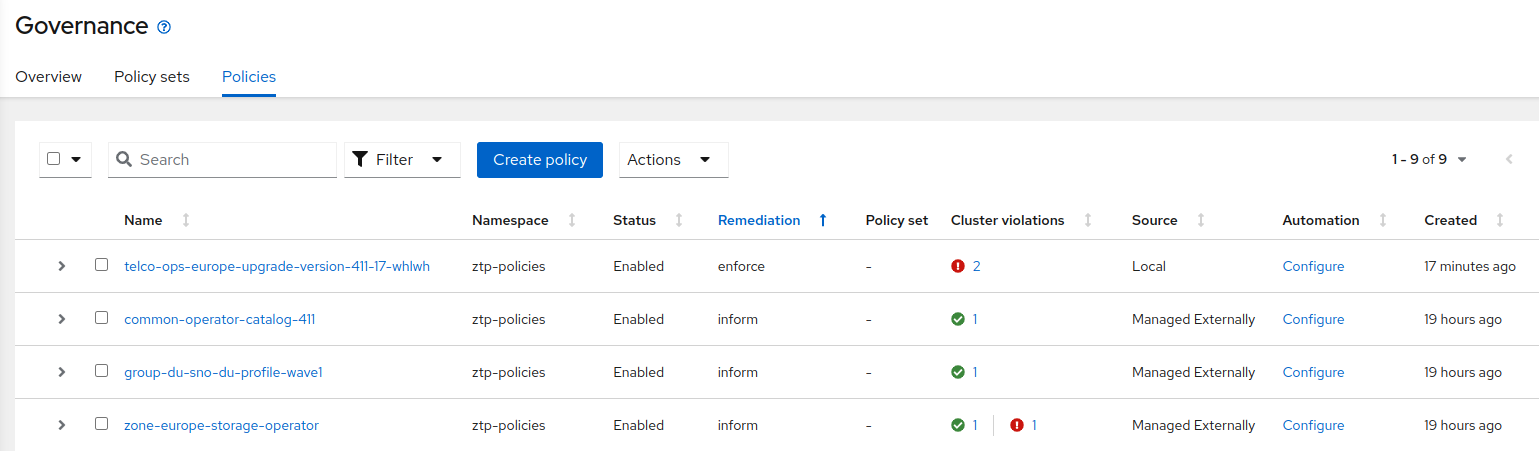
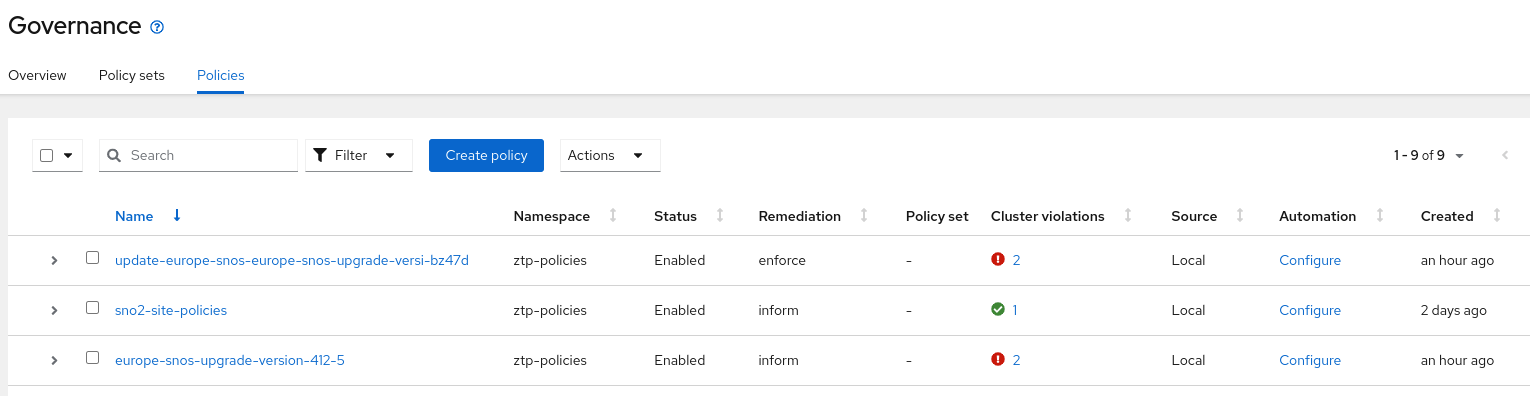
[CI] Publish Documentation for f37550affd594da3e98b9a56e87d13621a399abb - f37550affd594da3e98b9a56e87d13621a399abb 🚀

diff --git a/5g-ran-deployments-on-ocp-lab/4.12/using-talm-to-update-clusters.html b/5g-ran-deployments-on-ocp-lab/4.12/using-talm-to-update-clusters.html
@@ -672,10 +672,22 @@
 <div id="preamble">
 <div class="sectionbody">
 <div class="paragraph">
-<p>In this section we will perform a platform upgrade to both managed clusters using the pre-cache and backup feature implemented in the Topology Aware Lifecycle Manager (TALM) operator. The pre-cache feature prepares the maintenance operation in the managed clusters by pulling the required artifacts prior to the upgrade. The reasoning behind this feature is that SNO spoke clusters may have limited bandwidth to the container registry, which will make it difficult for the upgrade to complete within the required time. In order to ensure the upgrade can fit within the maintenance window, the required artifacts need to be present on the spoke cluster prior to the upgrade. The idea is pre-caching all the images needed for the platform and operator upgrade on the node, so they are not pulled at upgrade time. Do it in a maintenance window(s) before the upgrade maintenance window.</p>
+<p>In this section, we will perform a platform upgrade to both managed clusters using the pre-cache and backup feature implemented in the Topology Aware Lifecycle Manager (TALM) operator. The pre-cache feature prepares the maintenance operation in the managed clusters by pulling the required artifacts prior to the upgrade. The reasoning behind this feature is that SNO spoke clusters may have limited bandwidth to the container registry, which will make it difficult for the upgrade to complete within the required time. In order to ensure the upgrade can fit within the maintenance window, the required artifacts need to be present on the spoke cluster prior to the upgrade. The idea is pre-caching all the images needed for the platform and operator upgrade on the node, so they are not pulled at upgrade time. Do it in a maintenance window(s) before the upgrade maintenance window.</p>
 </div>
 <div class="paragraph">
 <p>The backup feature, on the other hand, implements a procedure for rapid recovery of a SNO in the event of a failed upgrade that is unrecoverable. The SNO needs to be restored to a working state with the previous version of OCP without requiring a re-provision of the application(s).</p>
+</div>
+<div class="admonitionblock important">
+<table>
+<tr>
+<td class="icon">
+<i class="fa icon-important" title="Important"></i>
+</td>
+<td class="content">
+The backup feature only allows SNOs to be restored, this is not applicable to any other kind of OpenShift clusters.
+</td>
+</tr>
+</table>
 </div>
 <div class="paragraph">
 <p>Let&#8217;s upgrade our both clusters. First of all, let&#8217;s verify the TALM operator is running in our <strong>hub cluster</strong>:</p>
@@ -740,7 +752,7 @@ deployment.apps/gitops-operator-controller-manager          1/1     1           
 </div>
 </div>
 <div class="paragraph">
-<p>Finally, let&#8217;s take a look at the cluster group upgrade (CGU) CRD managed by TALM. If we pay a closer look we will notice that an already completed CGU was applied to SNO2. As we mentioned in <a href="talm.html#inform-policies">inform policies</a> section, all policies are not enforced, the user has to create the proper CGU resource to enforce them. However, when using ZTP we want our cluster provisioned and configured automatically. This is where TALM will step through the set of created policies (inform) and will enforce them once the cluster was successfully provisioned. Therefore, the configuration stage starts without any intervention ending up with our OpenShift cluster ready to process workloads.</p>
+<p>Finally, let&#8217;s take a look at the cluster group upgrade (CGU) CRD managed by TALM. If we pay a closer look we will notice that an already completed CGU was applied to SNO2. As we mentioned in <a href="talm.html#inform-policies">inform policies</a> section, all policies are not enforced, the user has to create the proper CGU resource to enforce them. However, when using ZTP, we want our cluster provisioned and configured automatically. This is where TALM will step through the set of created policies (inform) and will enforce them once the cluster was successfully provisioned. Therefore, the configuration stage starts without any intervention ending up with our OpenShift cluster ready to process workloads.</p>
 </div>
 <div class="admonitionblock warning">
 <table>
@@ -771,12 +783,24 @@ ztp-install   sno2   3h29m   Completed   All clusters are compliant with all the
 <h2 id="getting-snos-kubeconfigs"><a class="anchor" href="#getting-snos-kubeconfigs"></a>Getting the SNO clusters kubeconfigs</h2>
 <div class="sectionbody">
 <div class="paragraph">
-<p>In the previous sections we have deployed the <code>sno2</code> cluster and attached the <code>sno1</code> cluster. Before we continue with TALM, let&#8217;s grab the kubeconfigs for both cluster since we will need them for the next sections.</p>
+<p>In the previous sections we have deployed the <code>sno2</code> cluster and attached the <code>sno1</code> cluster. Before we continue with TALM, let&#8217;s grab the kubeconfigs for both cluster since we will need them for the next sections. The following commands need to be only executed in the hypervisor as the root user.</p>
+</div>
+<div class="admonitionblock warning">
+<table>
+<tr>
+<td class="icon">
+<i class="fa icon-warning" title="Warning"></i>
+</td>
+<td class="content">
+Be sure you are executing the following commands after becoming root in the hypervisor. Notice that when becoming root you can connect to the hub cluster using the <code>oc</code> binary.
+</td>
+</tr>
+</table>
 </div>
 <div class="listingblock console-input">
 <div class="content">
-<pre class="highlightjs highlight"><code class="language-bash hljs" data-lang="bash">oc --kubeconfig ~/5g-deployment-lab/hub-kubeconfig -n sno1 extract secret/sno1-admin-kubeconfig --to=- &gt; ~/5g-deployment-lab/sno1-kubeconfig
-oc --kubeconfig ~/5g-deployment-lab/hub-kubeconfig -n sno2 extract secret/sno2-admin-kubeconfig --to=- &gt; ~/5g-deployment-lab/sno2-kubeconfig</code></pre>
+<pre class="highlightjs highlight"><code class="language-bash hljs" data-lang="bash">oc --kubeconfig ~/hub-kubeconfig -n sno1 extract secret/sno1-admin-kubeconfig --to=- &gt; ~/sno1-kubeconfig
+oc --kubeconfig ~/hub-kubeconfig -n sno2 extract secret/sno2-admin-kubeconfig --to=- &gt; ~/sno2-kubeconfig</code></pre>
 </div>
 </div>
 </div>
@@ -840,7 +864,19 @@ git push origin main</code></pre>
 </div>
 </div>
 <div class="paragraph">
-<p>Once committed, in a couple of minutes we will see a new policy in the multicloud RHACM console. As noticed, the policy named europe-snos-upgrade-version-412-5 has a violation. However, only one. If we check the policy information we will see that this policy is only targeting SNO2 cluster. That&#8217;s because the SNO1 cluster does not have the labels zone-europe and active logicalGroup that the PGT is targeting in its binding rule.</p>
+<p>Once committed, in a couple of minutes we will see a new policy in the multicloud RHACM console. As noticed, the policy named europe-snos-upgrade-version-412-5 has a violation. However, only one cluster is not compliant. If we check the policy information we will see that this policy is only targeting SNO2 cluster. That&#8217;s because the SNO1 cluster does not have the labels zone-europe and active logicalGroup that the PGT is targeting in its binding rule.</p>
+</div>
+<div class="admonitionblock warning">
+<table>
+<tr>
+<td class="icon">
+<i class="fa icon-warning" title="Warning"></i>
+</td>
+<td class="content">
+Notice in the following picture that there are policies not applying to any cluster. Those are policies targeting the test environment. This is expected since we do not have any clusters in the test environment, e.g, no clusters are labeled with the proper label for testing: logicalGroup=test.
+</td>
+</tr>
+</table>
 </div>
 <div class="imageblock">
 <div class="content">
@@ -848,7 +884,7 @@ git push origin main</code></pre>
 </div>
 </div>
 <div class="paragraph">
-<p>Let&#8217;s add the proper labels to SNO1:</p>
+<p>Let&#8217;s add the proper labels to production cluster SNO1:</p>
 </div>
 <div class="listingblock console-input">
 <div class="content">
@@ -866,7 +902,7 @@ git push origin main</code></pre>
 <h2 id="upgrade-cgu-creation"><a class="anchor" href="#upgrade-cgu-creation"></a>Applying the upgrade</h2>
 <div class="sectionbody">
 <div class="paragraph">
-<p>At this point we need to create a CGU resource that will start the upgrade process. In our case, the process will be divided into two stages:</p>
+<p>At this point, we need to create a Cluster Group Upgrade (CGU) resource that will start the upgrade process. In our case, the process will be divided into two stages:</p>
 </div>
 <div class="olist arabic">
 <ol class="arabic">
@@ -881,7 +917,7 @@ git push origin main</code></pre>
 <div class="sect2">
 <h3 id="talm-backup-precache"><a class="anchor" href="#talm-backup-precache"></a>Backup and pre-cache</h3>
 <div class="paragraph">
-<p>Let&#8217;s create the CGU. In this case, we will apply the managed policy (europe-snos-upgrade-version-412-5) to both clusters at the same time (maxConcurrency is 2). Notice that the CGU is disabled, this is suggested if we are going to run the precaching feature. This means, that once the precaching process is done we are ready to start the upgrade process. This idea is related to the compliance of a maintenance window in an enterprise.</p>
+<p>Let&#8217;s create the CGU. In this case, we will apply the managed policy (europe-snos-upgrade-version-412-5) to both clusters at the same time (maxConcurrency is 2). Notice that the CGU is disabled, this is suggested if we are going to run the precaching feature. This means, that once the precaching process is done we are ready to start the upgrade process by enabling the CGU. This idea is related to the compliance of a maintenance window in an enterprise.</p>
 </div>
 <div class="paragraph">
 <p>Remember that several gigabytes of artifacts needs to be downloaded to the spoke for a full upgrade. SNO spoke clusters may have limited bandwidth to the hub cluster hosting the registry, which will make it difficult for the upgrade to complete within the required time. In order to ensure the upgrade can fit within the maintenance window, the required artifacts need to be present on the spoke cluster prior to the upgrade. Therefore, the process is split up into two stages as mentioned.</p>
@@ -906,7 +942,6 @@ metadata:
 spec:
   preCaching: true
   backup: true
-  deleteObjectsOnCompletion: false
   clusters:
   - sno1
   - sno2
@@ -924,7 +959,7 @@ EOF</code></pre>
 </div>
 <div class="listingblock console-input">
 <div class="content">
-<pre class="highlightjs highlight"><code class="language-bash hljs" data-lang="bash">oc --kubeconfig ~/5g-deployment-lab/hub-kubeconfig get cgu -A</code></pre>
+<pre class="highlightjs highlight"><code class="language-bash hljs" data-lang="bash">oc --kubeconfig ~/hub-kubeconfig get cgu -A</code></pre>
 </div>
 </div>
 <div class="listingblock console-input">
@@ -944,14 +979,14 @@ ztp-policies   update-europe-snos   10s     PrecacheSpecIsWellFormed   Precachin
 <i class="fa icon-warning" title="Warning"></i>
 </td>
 <td class="content">
-Pre-cache job can take up to 5m to be created.
+Be sure you are executing the following commands in the hypervisor. Notice that pre-cache job can take up to 5m to be created.
 </td>
 </tr>
 </table>
 </div>
 <div class="listingblock console-input">
 <div class="content">
-<pre class="highlightjs highlight"><code class="language-bash hljs" data-lang="bash">oc --kubeconfig ~/5g-deployment-lab/sno2-kubeconfig -n openshift-talo-pre-cache get job pre-cache</code></pre>
+<pre class="highlightjs highlight"><code class="language-bash hljs" data-lang="bash">oc --kubeconfig ~/sno2-kubeconfig -n openshift-talo-pre-cache get job pre-cache</code></pre>
 </div>
 </div>
 <div class="listingblock console-input">
@@ -965,14 +1000,14 @@ pre-cache   0/1           64s        64s</code></pre>
 </div>
 <div class="listingblock console-input">
 <div class="content">
-<pre class="highlightjs highlight"><code class="language-bash hljs" data-lang="bash">oc --kubeconfig ~/5g-deployment-lab/sno2-kubeconfig logs job/pre-cache -n openshift-talo-pre-cache</code></pre>
+<pre class="highlightjs highlight"><code class="language-bash hljs" data-lang="bash">oc --kubeconfig ~/sno2-kubeconfig logs job/pre-cache -n openshift-talo-pre-cache -f</code></pre>
 </div>
 </div>
 <div class="listingblock console-input">
 <div class="content">
 <pre class="highlightjs highlight"><code class="language-bash hljs" data-lang="bash">upgrades.pre-cache 2023-03-16T12:59:10+00:00 DEBUG Release index image processing done
[1 lines of base64/hex data omitted]
-upgrades.pre-cache 2023-03-16T12:59:10+00:00 DEBUG Operators index is not specified. Operators won't be pre-cached
+upgrades.pre-cache 2023-03-16T12:59:10+00:00 DEBUG Operators index is not specified. Operators will not be pre-cached
 upgrades.pre-cache 2023-03-16T12:59:10+00:00 DEBUG Pulling quay.io/openshift-release-dev/ocp-v4.0-art-dev@sha256:006e37a1f141eb219364a501767fb4a26210908385eef9576af00b55d8225ecb [1/183]
 upgrades.pre-cache 2023-03-16T12:59:10+00:00 DEBUG Pulling quay.io/openshift-release-dev/ocp-v4.0-art-dev@sha256:01b510f238c0a8ad44df44d4aba3d0d2cfa429153ce3f451095484815f5746fd [2/183]
 upgrades.pre-cache 2023-03-16T12:59:11+00:00 DEBUG Pulling quay.io/openshift-release-dev/ocp-v4.0-art-dev@sha256:02c9c2a2ef5941156a767d40abe900a669a8237a8444a3974b360c326a21ffc3 [3/183]
@@ -1001,7 +1036,12 @@ It can take up to 5 minutes for the CGU to report the new state.
 </div>
 <div class="listingblock console-input">
 <div class="content">
-<pre class="highlightjs highlight"><code class="language-bash hljs" data-lang="bash">oc --kubeconfig ~/5g-deployment-lab/hub-kubeconfig get cgu -A</code></pre>
+<pre class="highlightjs highlight"><code class="language-bash hljs" data-lang="bash">WARNING: The following commands are executed from the workstation.</code></pre>
+</div>
+</div>
+<div class="listingblock">
+<div class="content">
+<pre>oc --kubeconfig ~/5g-deployment-lab/hub-kubeconfig get cgu -A</pre>
 </div>
 </div>
 <div class="listingblock console-input">
@@ -1015,7 +1055,7 @@ ztp-policies   update-europe-snos   20m   NotEnabled   Not enabled</code></pre>
 <div class="sect2">
 <h3 id="talm-upgrade"><a class="anchor" href="#talm-upgrade"></a>Triggering the upgrade</h3>
 <div class="paragraph">
-<p>Now that the pre-cache is ready, we can trigger the update. As we said earlier, before the update is actually executed a backup will be done so we can rollback. In order to trigger the update we need to enable the CGU:</p>
+<p>Now that the pre-cache is done, we can trigger the update. As we said earlier, before the update is actually executed a backup will be done so we can rollback. In order to trigger the update we need to enable the CGU:</p>
 </div>
 <div class="listingblock console-input">
 <div class="content">
@@ -1047,14 +1087,14 @@ ztp-policies   update-europe-snos   25m    InProgress   Backup in progress for 2
 <i class="fa icon-warning" title="Warning"></i>
 </td>
 <td class="content">
-Backup job can take up to 5m to be created.
+Be sure you are executing the following commands in the hypervisor. Notice that backup job can take up to 5m to be created.
 </td>
 </tr>
 </table>
 </div>
 <div class="listingblock console-input">
 <div class="content">
-<pre class="highlightjs highlight"><code class="language-bash hljs" data-lang="bash">oc --kubeconfig ~/5g-deployment-lab/sno1-kubeconfig get jobs -A</code></pre>
+<pre class="highlightjs highlight"><code class="language-bash hljs" data-lang="bash">oc --kubeconfig ~/sno1-kubeconfig get jobs -A</code></pre>
 </div>
 </div>
 <div class="listingblock console-input">
@@ -1074,7 +1114,7 @@ openshift-talo-pre-cache               pre-cache                                
 </div>
 <div class="listingblock console-input">
 <div class="content">
-<pre class="highlightjs highlight"><code class="language-bash hljs" data-lang="bash">oc --kubeconfig ~/5g-deployment-lab/sno2-kubeconfig logs job/backup-agent -n openshift-talo-backup</code></pre>
+<pre class="highlightjs highlight"><code class="language-bash hljs" data-lang="bash">oc --kubeconfig ~/sno2-kubeconfig logs job/backup-agent -n openshift-talo-backup -f</code></pre>
 </div>
 </div>
 <div class="listingblock console-input">
@@ -1124,6 +1164,18 @@ INFO[0023] backup has successfully finished ...</code></pre>
 <div class="paragraph">
 <p>Once backups are finished for all clusters, the CGU state will move to <code>BackupCompleted</code>:</p>
 </div>
+<div class="admonitionblock warning">
+<table>
+<tr>
+<td class="icon">
+<i class="fa icon-warning" title="Warning"></i>
+</td>
+<td class="content">
+The following command is executed from your laptop or workstation.
+</td>
+</tr>
+</table>
+</div>
 <div class="listingblock console-input">
 <div class="content">
 <pre class="highlightjs highlight"><code class="language-bash hljs" data-lang="bash">oc --kubeconfig ~/5g-deployment-lab/hub-kubeconfig get cgu -A</code></pre>
@@ -1139,9 +1191,21 @@ ztp-policies   update-europe-snos   28m    BackupCompleted   Backup is completed
 <div class="paragraph">
 <p>At this point, if we connect to any of our spoke clusters we can see that the upgrade process is actually taking place.</p>
 </div>
+<div class="admonitionblock warning">
+<table>
+<tr>
+<td class="icon">
+<i class="fa icon-warning" title="Warning"></i>
+</td>
+<td class="content">
+Be sure you are executing the following commands in the hypervisor.
+</td>
+</tr>
+</table>
+</div>
 <div class="listingblock console-input">
 <div class="content">
-<pre class="highlightjs highlight"><code class="language-bash hljs" data-lang="bash">oc --kubeconfig ~/5g-deployment-lab/sno2-kubeconfig get clusterversion,nodes</code></pre>
+<pre class="highlightjs highlight"><code class="language-bash hljs" data-lang="bash">oc --kubeconfig ~/sno2-kubeconfig get clusterversion,nodes</code></pre>
 </div>
 </div>
 <div class="listingblock console-input">
@@ -1174,7 +1238,7 @@ node/sno2.5g-deployment.lab   Ready    control-plane,master,worker   5h7m   v1.2
 </div>
 <div class="listingblock console-input">
 <div class="content">
-<pre class="highlightjs highlight"><code class="language-bash hljs" data-lang="bash">oc --kubeconfig ~/5g-deployment-lab/sno2-kubeconfig get clusterversion,nodes</code></pre>
+<pre class="highlightjs highlight"><code class="language-bash hljs" data-lang="bash">oc --kubeconfig ~/sno2-kubeconfig get clusterversion,nodes</code></pre>
 </div>
 </div>
 <div class="listingblock console-input">
@@ -1188,7 +1252,7 @@ node/sno2.5g-deployment.lab   Ready    control-plane,master,worker   5h56m   v1.
 </div>
 <div class="listingblock console-input">
 <div class="content">
-<pre class="highlightjs highlight"><code class="language-bash hljs" data-lang="bash">oc --kubeconfig ~/5g-deployment-lab/sno1-kubeconfig get clusterversion,nodes</code></pre>
+<pre class="highlightjs highlight"><code class="language-bash hljs" data-lang="bash">oc --kubeconfig ~/sno1-kubeconfig get clusterversion,nodes</code></pre>
 </div>
 </div>
 <div class="listingblock console-input">
@@ -1201,7 +1265,19 @@ node/openshift-master-0   Ready    control-plane,master,worker   18h   v1.25.4+a
 </div>
 </div>
 <div class="paragraph">
-<p>Notice that now the upgrade policy (europe-snos-upgrade-version-412-5) is now compliant on both clusters. See that the enforce policy is removed once the CGU is successfully applied. And finally, the CGU will be <code>Completed</code>:</p>
+<p>Notice that now the upgrade policy (europe-snos-upgrade-version-412-5) is now compliant on both clusters. See that, in order to save resources, the enforce policy is removed once the CGU is successfully applied. And finally, the CGU will be <code>Completed</code>:</p>
+</div>
+<div class="admonitionblock warning">
+<table>
+<tr>
+<td class="icon">
+<i class="fa icon-warning" title="Warning"></i>
+</td>
+<td class="content">
+The following command is executed from your laptop or workstation.
+</td>
+</tr>
+</table>
 </div>
 <div class="listingblock console-input">
 <div class="content">
